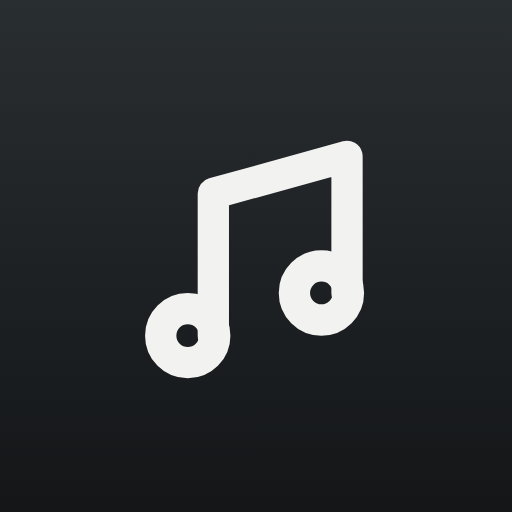
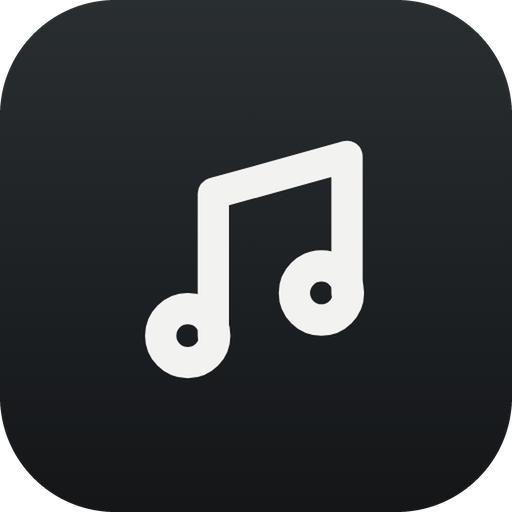
Player: 탭·앱 아이콘 모서리 둥글게, 시안에 이름 왼쪽 엠블럼

diff --git a/player/sian.html b/player/sian.html
@@ -89,6 +89,7 @@ body::before{content:"";position:fixed;inset:0;background:var(--noise);opacity:.
 
 /* 파형 진행 막대 */
 .totop{cursor:pointer;user-select:none}
+.totop{display:inline-flex;align-items:center;gap:10px}.emb{width:24px;height:24px;flex:none}
 /* 재생바(11-17 회장 시안 1안): 시간 위, 얇은 흰 막대, 손대면 손잡이, 끄는 동안 이동할 시간 표시 */
 .times{display:flex;justify-content:space-between;margin-top:18px;color:rgba(242,242,240,.9);font-size:12.5px;font-variant-numeric:tabular-nums}
 .seek{position:relative;height:6px;border-radius:3px;background:rgba(255,255,255,.2);margin-top:8px;cursor:pointer;touch-action:none;transition:height .2s var(--spring),margin .2s var(--spring)}
@@ -928,7 +929,7 @@ function render(){
   if(!$("app")) return;
   const keep = $("tree")?.scrollTop || 0, wide = isWide();
   $("app").className = "app " + (wide ? "wide" : "phone");
-  $("app").innerHTML = `<div class="hd"><span class="lab totop" data-a="top" title="맨 위로">GWANG · Player</span><span class="hacts"><span class="meta">${ALL.length ? ALL.length + "곡" : ""}</span>
+  $("app").innerHTML = `<div class="hd"><span class="lab totop" data-a="top" title="맨 위로"><img class="emb" src="icon-192.png" alt="">GWANG · Player</span><span class="hacts"><span class="meta">${ALL.length ? ALL.length + "곡" : ""}</span>
       <button class="ib${busy ? " spin" : ""}" data-a="reload" title="OneDrive에서 다시 읽기">${I.reload}</button><button class="ib" data-a="logout" title="로그아웃">${I.out}</button></span></div>
     <div class="body"><div class="list"><div class="search">${I.find}<input id="q" placeholder="곡 이름으로 찾기" value="${esc(q)}" enterkeyhint="search"></div>
       <div class="scroll" id="tree">${treeHtml()}</div>${wide ? "" : miniBar()}</div>${wide ? fullScreen() : ""}</div>${wide ? "" : fullScreen()}`;
